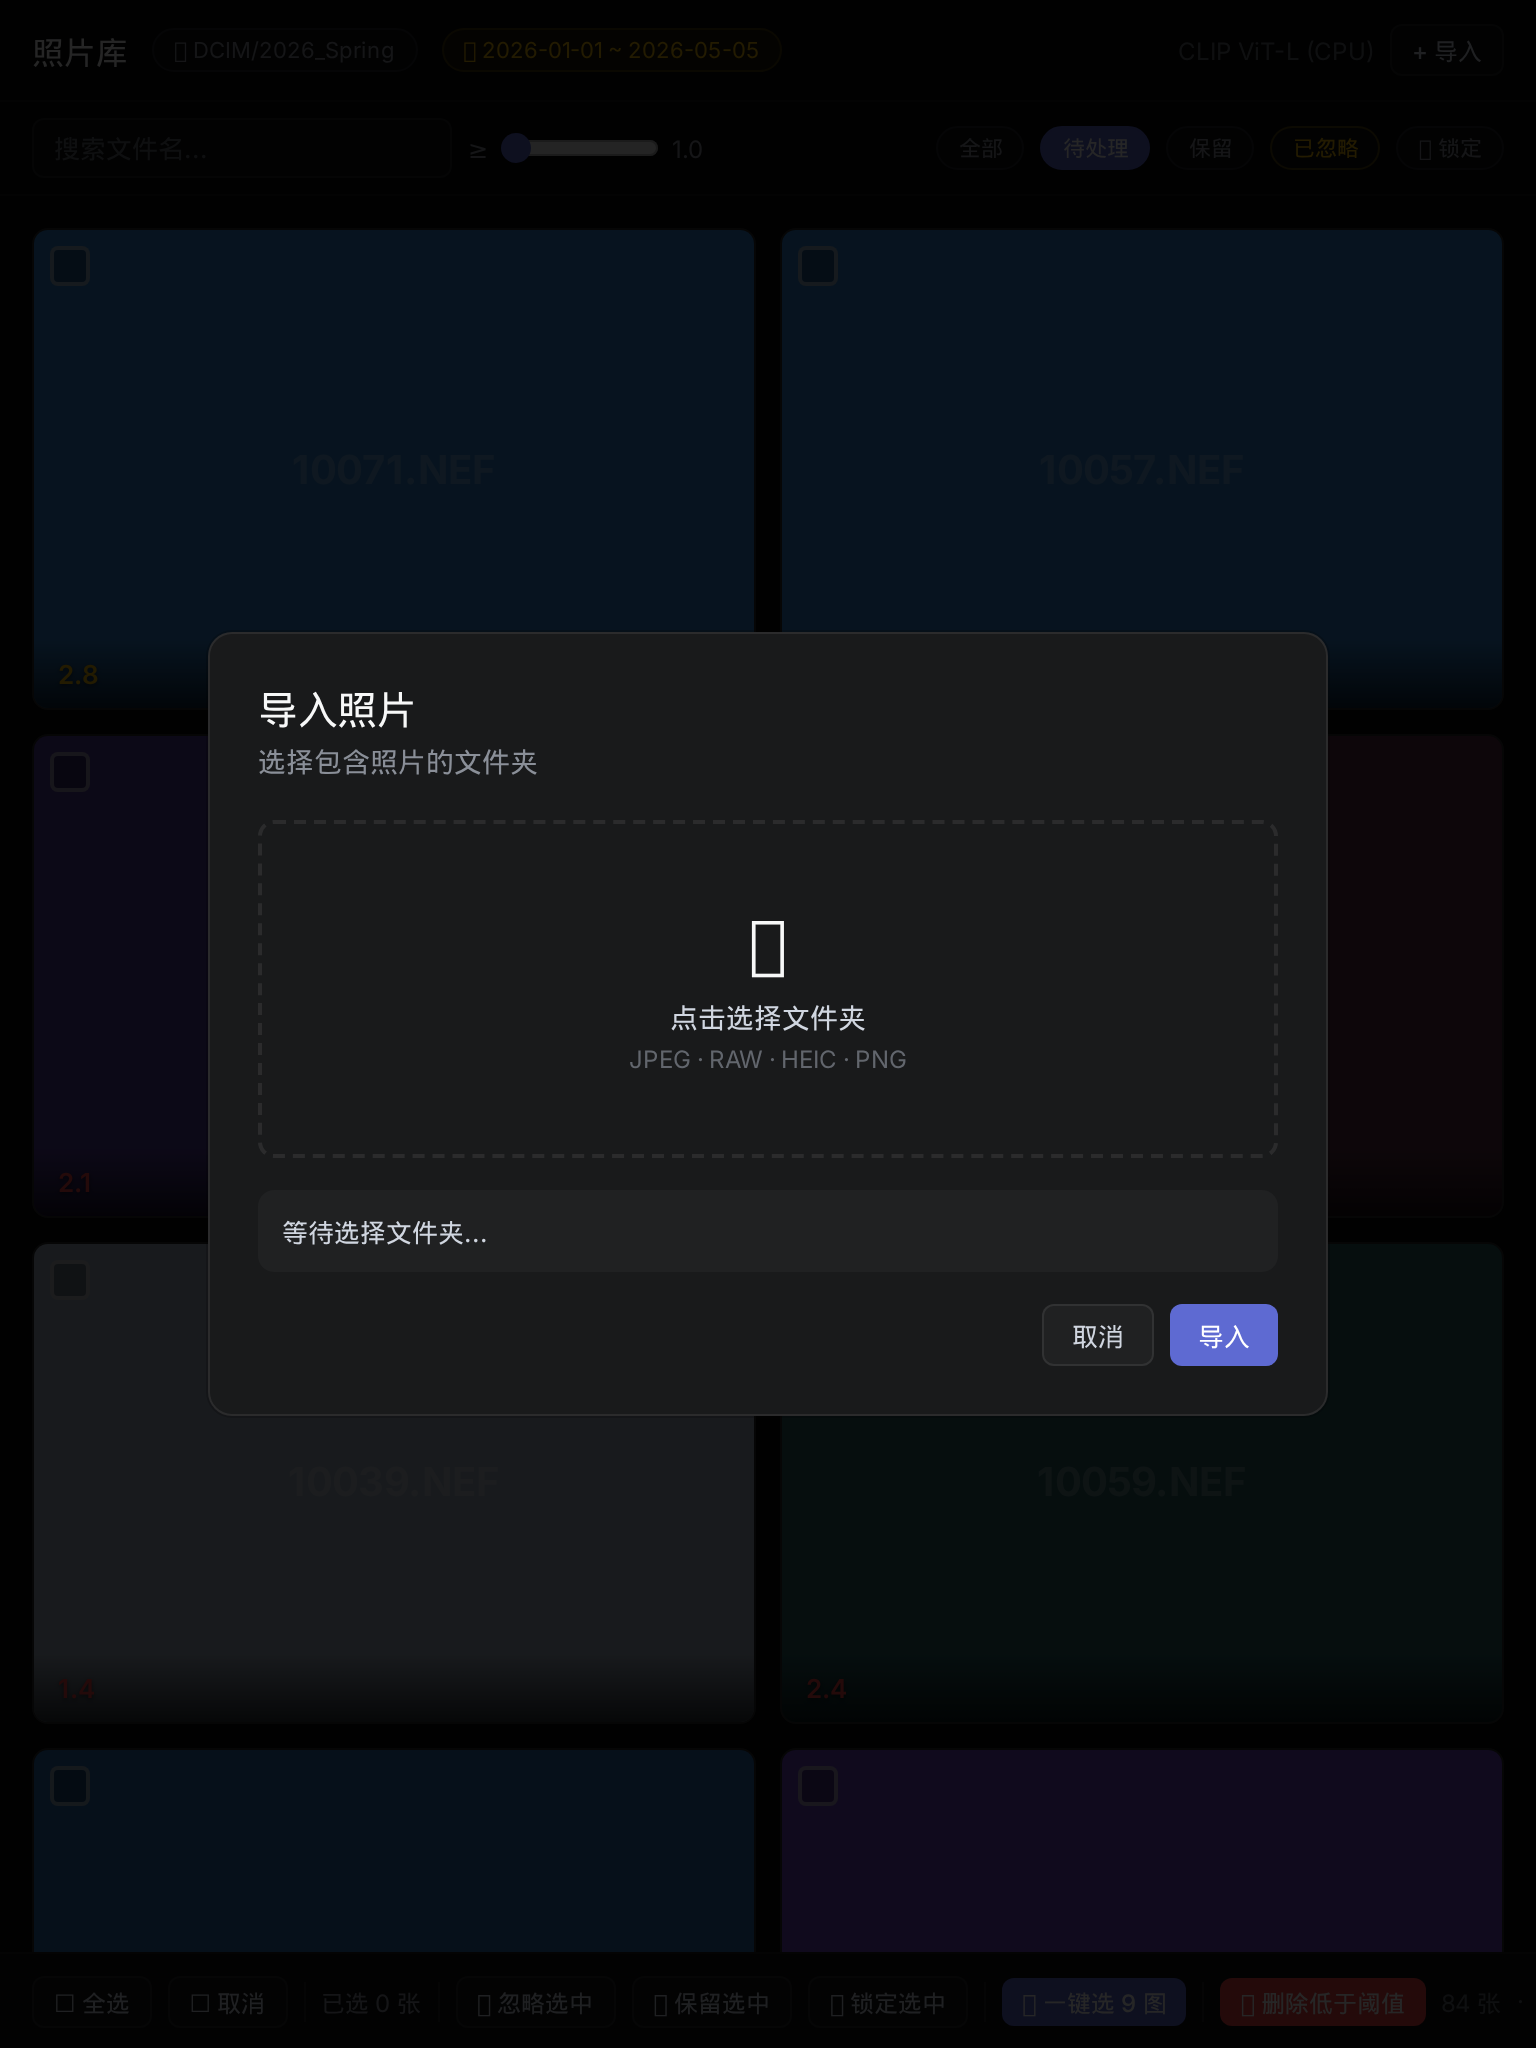
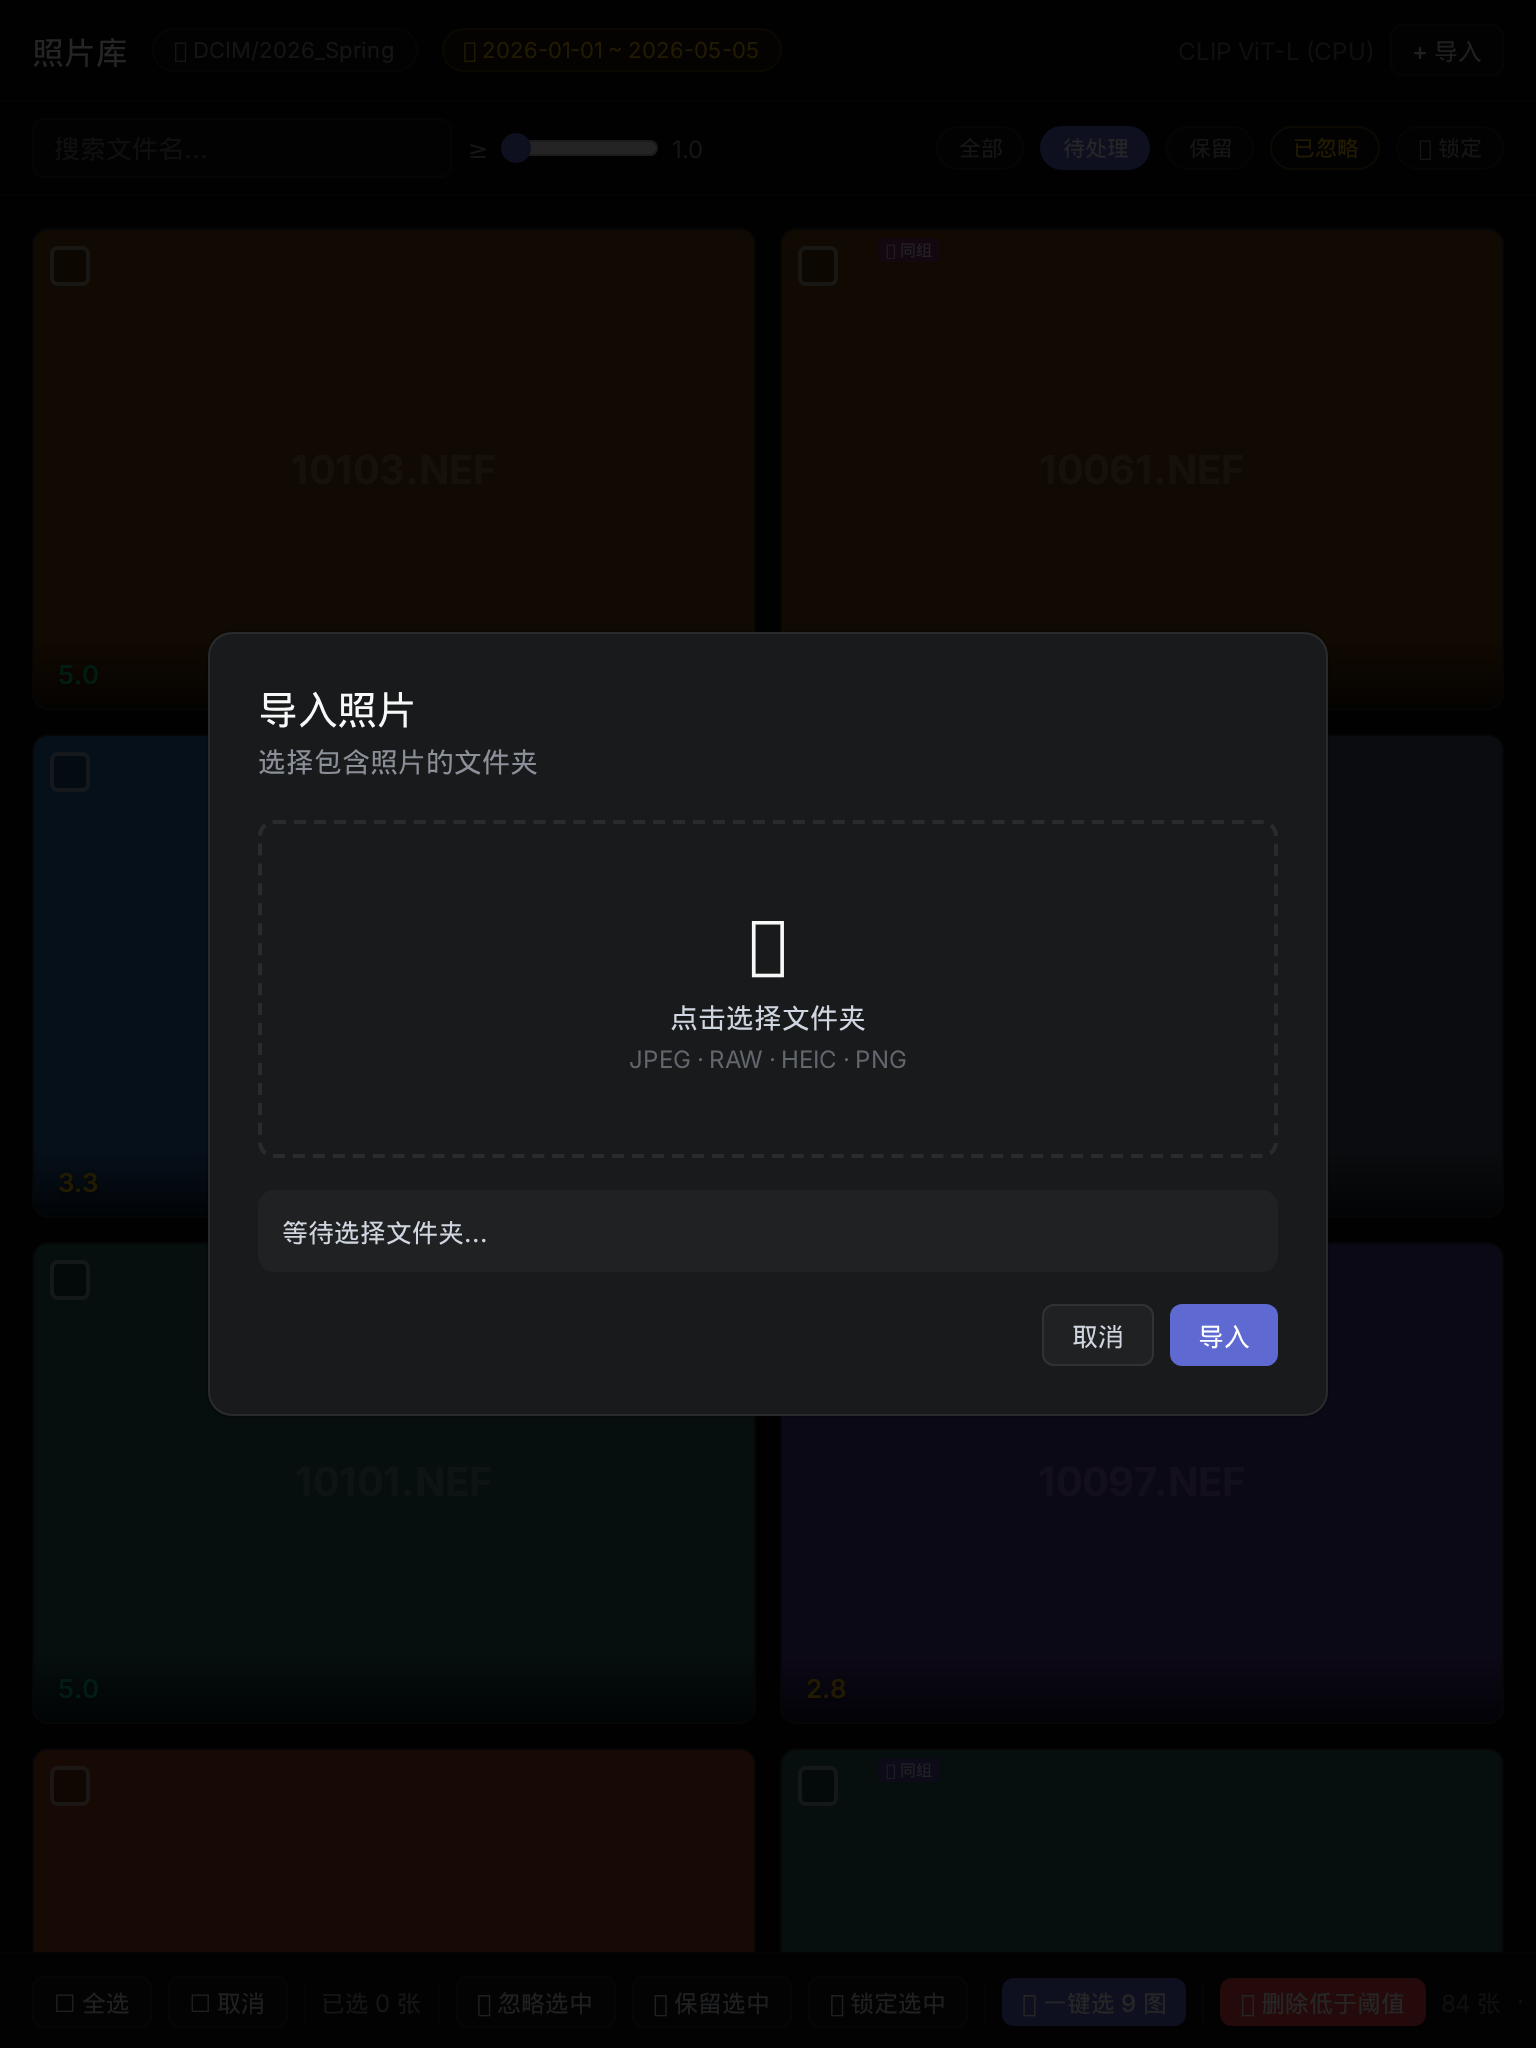
🔄 Variant A v3: 详情页放大 + 分数分布 + 5分集 + 相似组 + 忽略隐藏
- 详情页图片放大至 75%，侧边栏缩至 260px 且可滚动
- 新增 实时分数分布直方图（1-5 分 bins + 数字 + 去重统计）
  + 点击任意 bin 可筛选到对应分值的照片
- 新增 可折叠 5 分照片集（详情页侧边栏，显示缩略图网格，点击跳转）
- 新增 相似图片组自动识别模拟
  + 网格中标注「同组」和「组最佳」
  + 详情页显示组内全部照片缩略图、组最佳评分
  + 分布统计中相似组合并算作 1 张
- 已忽略照片默认不显示在主网格中
- 更新 filter 默认状态：仅展示待处理和保留的照片

Changed region(s): [[0.0, 0.0938, 1.0, 0.3438]]

diff --git a/sketches/001-ux-first/variant-a-tool/index.html b/sketches/001-ux-first/variant-a-tool/index.html
@@ -139,9 +139,43 @@ html, body { height: 100%; font-family: 'Inter', system-ui, -apple-system, sans-
 .detail-close { width: 32px; height: 32px; border-radius: var(--radius-md); border: none; background: rgba(255,255,255,0.04); color: var(--text-secondary); cursor: pointer; font-size: 18px; display: flex; align-items: center; justify-content: center; }
 .detail-close:hover { background: rgba(255,255,255,0.08); }
 .detail-body { flex: 1; display: flex; align-items: center; justify-content: center; padding: 24px; gap: 24px; min-height: 0; }
-.detail-image { max-width: 65%; max-height: 80vh; border-radius: var(--radius-lg); object-fit: contain; }
-.detail-sidebar { width: 280px; flex-shrink: 0; }
+.detail-image { flex: 1; max-width: 75%; max-height: 85vh; border-radius: var(--radius-lg); object-fit: contain; min-height: 400px; }
+.detail-sidebar { width: 260px; flex-shrink: 0; max-height: 85vh; overflow-y: auto; }
 .detail-sidebar h4 { font-size: 13px; font-weight: 500; color: var(--text-quaternary); text-transform: uppercase; letter-spacing: 0.5px; margin-bottom: 12px; }
+
+/* Score Distribution */
+.score-dist { margin-bottom: 16px; }
+.score-dist-bar { display: flex; align-items: center; gap: 6px; padding: 2px 0; font-size: 12px; cursor: pointer; border-radius: 3px; transition: background 0.1s; }
+.score-dist-bar:hover { background: rgba(255,255,255,0.04); }
+.score-dist-bar .s-label { width: 14px; color: var(--text-quaternary); text-align: right; flex-shrink: 0; }
+.score-dist-bar .s-bar-wrap { flex: 1; height: 12px; background: rgba(255,255,255,0.06); border-radius: 3px; overflow: hidden; }
+.score-dist-bar .s-bar { height: 100%; border-radius: 3px; transition: width 0.3s ease; min-width: 2px; }
+.score-dist-bar .s-count { width: 28px; color: var(--text-tertiary); text-align: right; flex-shrink: 0; }
+.score-dist-bar .s-bar-5 { background: var(--success); }
+.score-dist-bar .s-bar-4 { background: #22d3ee; }
+.score-dist-bar .s-bar-3 { background: var(--warning); }
+.score-dist-bar .s-bar-2 { background: #fb923c; }
+.score-dist-bar .s-bar-1 { background: var(--danger); }
+.score-dist-bar.active .s-label { color: var(--text-primary); font-weight: 600; }
+.score-dist-bar.active { background: rgba(255,255,255,0.06); }
+
+/* Collapsible Top-5s */
+.collapse-section { margin-bottom: 16px; }
+.collapse-header { display: flex; align-items: center; gap: 6px; padding: 6px 0; cursor: pointer; border-radius: var(--radius-md); transition: background 0.1s; font-size: 12px; color: var(--text-tertiary); }
+.collapse-header:hover { color: var(--text-secondary); }
+.collapse-header .arrow { transition: transform 0.2s; font-size: 10px; }
+.collapse-header .arrow.open { transform: rotate(90deg); }
+.collapse-body { display: none; }
+.collapse-body.open { display: block; }
+.top5-grid { display: grid; grid-template-columns: repeat(3, 1fr); gap: 4px; margin-top: 6px; }
+.top5-thumb { aspect-ratio: 1; border-radius: 4px; overflow: hidden; cursor: pointer; border: 1px solid transparent; transition: border-color 0.1s; display: flex; align-items: center; justify-content: center; font-size: 10px; color: rgba(255,255,255,0.4); font-weight: 600; }
+.top5-thumb:hover { border-color: var(--accent); }
+
+/* Similar Group */
+.similar-section { margin-bottom: 16px; }
+.similar-badge { display: inline-flex; align-items: center; gap: 4px; padding: 3px 8px; border-radius: 9999px; font-size: 11px; background: rgba(147,51,234,0.15); color: #c084fc; border: 1px solid rgba(147,51,234,0.2); cursor: pointer; }
+.similar-tag { position: absolute; bottom: 32px; left: 8px; padding: 1px 5px; border-radius: 3px; font-size: 9px; font-weight: 500; background: rgba(147,51,234,0.5); color: #e9d5ff; }
+.grouped-badge { position: absolute; top: 4px; left: 48px; padding: 1px 4px; border-radius: 3px; font-size: 8px; background: rgba(147,51,234,0.4); color: #e9d5ff; }
 
 /* Score in detail - clickable */
 .score-display { display: flex; align-items: center; gap: 12px; margin-bottom: 16px; padding: 12px; background: rgba(255,255,255,0.03); border-radius: var(--radius-lg); cursor: pointer; transition: background 0.1s; }
@@ -365,6 +399,31 @@ html, body { height: 100%; font-family: 'Inter', system-ui, -apple-system, sans-
         <span class="hint">按 1-5 键</span>
       </div>
 
+      <!-- Score Distribution -->
+      <div class="score-dist" id="score-dist">
+        <h4>分数分布</h4>
+        <div id="score-dist-bars"></div>
+        <div id="score-dist-group-info" style="font-size:10px;color:var(--text-quaternary);margin-top:4px;"></div>
+      </div>
+
+      <!-- Similar Group Info -->
+      <div class="similar-section" id="similar-section" style="display:none;">
+        <h4>相似图片组</h4>
+        <div id="similar-group-info"></div>
+      </div>
+
+      <!-- Collapsible Top-5s -->
+      <div class="collapse-section" id="top5-section" style="display:none;">
+        <div class="collapse-header" onclick="toggleTop5()">
+          <span class="arrow" id="top5-arrow">▶</span>
+          <span>🏆 5 分照片集</span>
+          <span id="top5-count" style="margin-left:auto;font-size:11px;">0张</span>
+        </div>
+        <div class="collapse-body" id="top5-body">
+          <div class="top5-grid" id="top5-grid"></div>
+        </div>
+      </div>
+
       <h4>信息</h4>
       <div class="detail-meta">
         <div class="detail-meta-row"><span class="label">文件名</span><span class="value" id="detail-fn">--</span></div>
@@ -388,27 +447,143 @@ html, body { height: 100%; font-family: 'Inter', system-ui, -apple-system, sans-
 </div>
 
 <script>
-// ── Mock Data ──
+// ── Score Distribution ──
+function renderScoreDist() {
+  const counts = {1:0,2:0,3:0,4:0,5:0};
+  const activePhotos = photos.filter(p => p.status !== 'dismissed');
+  activePhotos.forEach(p => {
+    const bin = Math.round(p.score);
+    if (counts[bin] !== undefined) counts[bin]++;
+  });
+  const maxCount = Math.max(...Object.values(counts), 1);
+  const allPhotos = activePhotos.length;
+
+  // Group info
+  const grouped = activePhotos.filter(p => p.group);
+  const groupIds = new Set(grouped.map(p => p.group.groupId));
+  const dedupedCount = allPhotos - grouped.length + groupIds.size;
+  document.getElementById('score-dist-group-info').textContent =
+    `📎 ${groupIds.size} 组相似照片 · 去重算作 ${dedupedCount} 张`;
+
+  document.getElementById('score-dist-bars').innerHTML = [5,4,3,2,1].map(score => {
+    const pct = (counts[score] / maxCount) * 100;
+    const active = Math.round(photos[detailIndex].score) === score;
+    return `<div class="score-dist-bar ${active ? 'active' : ''}" onclick="filterToScore(${score})">
+      <span class="s-label">${score}</span>
+      <div class="s-bar-wrap"><div class="s-bar s-bar-${score}" style="width:${pct}%"></div></div>
+      <span class="s-count">${counts[score]}</span>
+    </div>`;
+  }).join('');
+}
+
+function filterToScore(score) {
+  // Switch to 'all' filter and highlight only this score in the grid
+  document.querySelectorAll('.filter-chip').forEach(c => c.classList.remove('active'));
+  document.querySelector('.filter-chip').classList.add('active');
+  currentFilter = 'all'; showingDismissed = false; showingLocked = false;
+  scoreThreshold = score;
+  document.getElementById('threshold-label').textContent = score;
+  document.querySelector('.score-filter input').value = score;
+  renderGrid();
+}
+
+// ── Top-5 Collapsible ──
+let top5Open = false;
+function toggleTop5() {
+  top5Open = !top5Open;
+  document.getElementById('top5-body').classList.toggle('open', top5Open);
+  document.getElementById('top5-arrow').classList.toggle('open', top5Open);
+}
+
+function renderTop5() {
+  const fivers = photos.filter(p => p.score >= 5.0 && p.status !== 'dismissed');
+  document.getElementById('top5-section').style.display = fivers.length > 0 ? 'block' : 'none';
+  document.getElementById('top5-count').textContent = `${fivers.length}张`;
+  document.getElementById('top5-grid').innerHTML = fivers.map(p =>
+    `<div class="top5-thumb" onclick="navigateToPhoto(${p.id})" style="background:${p.color};" title="${p.filename}">${p.filename.split('_')[1]}</div>`
+  ).join('');
+}
+
+function navigateToPhoto(id) {
+  const idx = photos.findIndex(p => p.id === id);
+  if (idx >= 0) { detailIndex = idx; showDetail(); }
+}
+
+// ── Similar Group ──
+function renderGroupInfo() {
+  const p = photos[detailIndex];
+  const section = document.getElementById('similar-section');
+  if (!p.group) { section.style.display = 'none'; return; }
+  section.style.display = 'block';
+
+  const groupPhotos = photos.filter(x => x.group && x.group.groupId === p.group.groupId);
+  const best = groupPhotos.reduce((a,b) => a.score > b.score ? a : b);
+  const content = document.getElementById('similar-group-info');
+  content.innerHTML = `
+    <div style="font-size:12px;color:var(--text-secondary);margin-bottom:8px;">
+      ${p.group.desc}（共 ${p.group.groupSize} 张）
+    </div>
+    <div style="display:flex;gap:4px;flex-wrap:wrap;">
+      ${groupPhotos.map(gp => {
+        const isBest = gp.id === best.id;
+        const isCurrent = gp.id === p.id;
+        return `<div onclick="navigateToPhoto(${gp.id})" style="width:40px;height:30px;border-radius:4px;background:${gp.color};cursor:pointer;display:flex;align-items:center;justify-content:center;font-size:9px;color:rgba(255,255,255,0.5);font-weight:600;border:${isCurrent ? '2px solid var(--accent)' : isBest ? '2px solid #c084fc' : '1px solid transparent'};" title="${gp.filename} — ${gp.score.toFixed(1)}分${isBest ? ' (组最佳)' : ''}">${gp.score.toFixed(1)}</div>`;
+      }).join('')}
+    </div>
+    <div style="font-size:10px;color:var(--text-quaternary);margin-top:4px;">
+      🏆 <strong style="color:#c084fc;">组最佳: ${best.filename}</strong> — ${best.score.toFixed(1)}分
+      ${best.id === p.id ? '（当前照片）' : ''}
+    </div>
+  `;
+}
 const photos = [];
 const colors = ['#4a5568','#718096','#a0aec0','#2d3748','#553c9a','#6b46c1','#3182ce','#2b6cb0','#285e61','#234e52','#744210','#9c4221','#702459','#5a2d43'];
 const photoDates = [];
+// Define similar photo groups (index ranges)
+const groupDefs = [
+  { ids: [2,15,27,41], desc: '几乎相同的构图，曝光不同' },
+  { ids: [5,18,33,52,68], desc: '连拍系列，表情差异很小' },
+  { ids: [10,22,38,55], desc: '相同场景，焦距微调' },
+  { ids: [7,20,35,48,60,73], desc: '多张相似，建议选最佳' },
+];
+let groupMap = {}; // photoId -> group info
+let groupIdCounter = 1;
+for (const g of groupDefs) {
+  const gid = groupIdCounter++;
+  g.ids.forEach((pid, idx) => {
+    groupMap[pid] = { groupId: gid, desc: g.desc, groupSize: g.ids.length, index: idx };
+  });
+}
 for (let i = 0; i < 84; i++) {
   const score = Math.round((Math.random() * 3.5 + 1) * 10) / 10; // 1.0 - 4.5 scale
   const score5 = Math.min(score, 5);
-  const status = Math.random() > 0.85 ? 'dismissed' : 'pending';
+  const isDismissed = Math.random() > 0.85;
   const locked = Math.random() > 0.92;
-  // Dates spread across 2026-01 to 2026-05
+  const group = groupMap[i] || null;
   const d = new Date(2026, 0, 1);
   d.setDate(d.getDate() + Math.floor(Math.random() * 125));
-  const dateStr = d.toISOString().slice(0, 10);
   photoDates.push(d);
   photos.push({
     id: i, filename: `DSC_${String(10023 + i).padStart(5,'0')}.NEF`,
-    score: score5, status, selected: false, locked,
+    score: score5, status: isDismissed ? 'dismissed' : 'pending',
+    selected: false, locked, group,
     color: colors[i % colors.length],
-    date: dateStr, dateObj: d,
+    date: d.toISOString().slice(0, 10), dateObj: d,
     res: '6000×4000', size: '24.3 MB',
   });
+}
+// Ensure at least some 5.0 scores
+for (let i = 0; i < 6; i++) {
+  photos[photos.length - 1 - i].score = 5.0;
+  photos[photos.length - 1 - i].status = 'pending';
+}
+// Ensure groups have a highest scorer
+for (const g of groupDefs) {
+  let best = null, bestScore = -1;
+  for (const pid of g.ids) {
+    if (photos[pid].score > bestScore) { bestScore = photos[pid].score; best = pid; }
+  }
+  if (best !== null) groupMap[best].isHighest = true;
 }
 photos.sort((a,b) => a.dateObj - b.dateObj); // sort by date
 photos.forEach((p,i) => { p.id = i; });
@@ -419,7 +594,7 @@ const dateMax = new Date(2026, 4, 5);
 const dateRangeMs = dateMax - dateMin;
 
 let detailIndex = 0;
-let currentFilter = 'pending';
+let currentFilter = 'pending'; // default: hide dismissed
 let scoreThreshold = 1;
 let showingDismissed = false;
 let showingLocked = false;
@@ -468,7 +643,9 @@ function renderGrid() {
         <button class="photo-action-btn" onclick="event.stopPropagation();quickDismiss(${p.id})" title="忽略">✕</button>
       </div>
       ${p.locked ? '<div class="photo-lock-badge" style="display:flex;">🔒</div>' : ''}
-      ${p.status === 'kept' ? '<div style="position:absolute;top:34px;right:8px;"><span class="badge badge-green">⭐ 保留</span></div>' : ''}
+      ${p.group && !p.group.isHighest ? '<div class="grouped-badge">📎 同组</div>' : ''}
+      ${p.group && p.group.isHighest ? '<div class="grouped-badge" style="background:rgba(147,51,234,0.6);color:#fff;">⭐ 组最佳</div>' : ''}
+      ${p.status === 'kept' ? '<div style="position:absolute;top:58px;right:8px;"><span class="badge badge-green">⭐ 保留</span></div>' : ''}
       <div class="photo-overlay">
         <span class="photo-score ${scoreClass}" onclick="event.stopPropagation();quickRate(${p.id})" title="点击修改评分"><span class="value">${p.score.toFixed(1)}</span></span>
       </div>
@@ -704,6 +881,9 @@ function showDetail() {
   document.getElementById('detail-image').textContent = p.filename.split('_')[1];
   updateScoreStars(p.score);
   document.getElementById('score-edit').classList.remove('open');
+  renderScoreDist();
+  renderTop5();
+  renderGroupInfo();
 }
 
 function updateScoreStars(score) {
